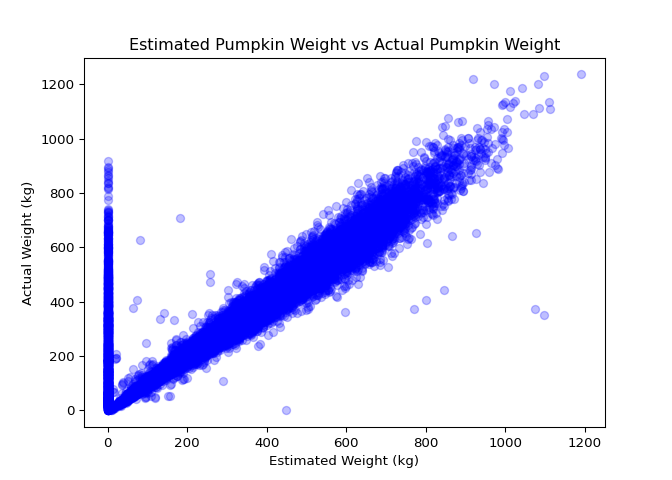
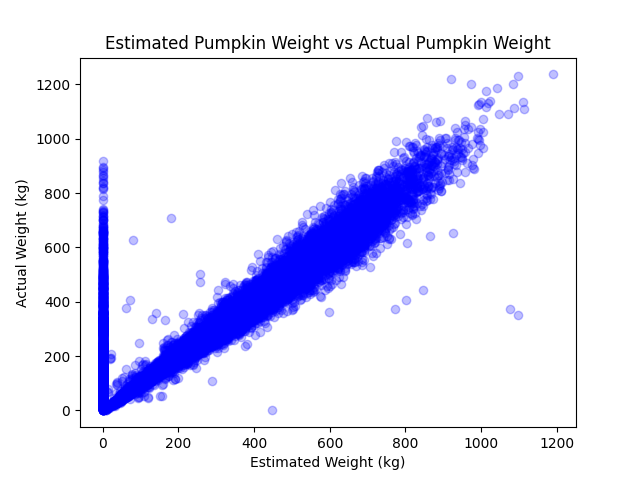
Creating filtered subset

diff --git a/Pumpkins/Pumpkins.py b/Pumpkins/Pumpkins.py
@@ -114,5 +114,11 @@ def main():
     figure_1.savefig("pumpkins_weight_relationship.png") #Saves the first figure to disk.
     plt.show() #Shows the figures when ran from terminal
 
+    #Subsetting 3 countries and saving as csv
+    filtered_pumpkins = pumpkins[pumpkins['country'.isin(['United Kingdom', 'Japan', 'Italy'])]]
+    print(filtered_pumpkins.head())
+    filtered_pumpkins.to_csv('pumpkins_filtered.csv')
+
+
 if __name__ == '__main__': #Ensures script runs
     main()
